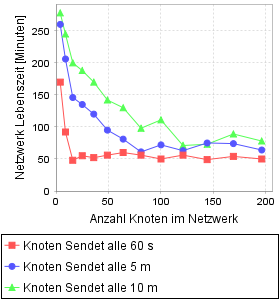
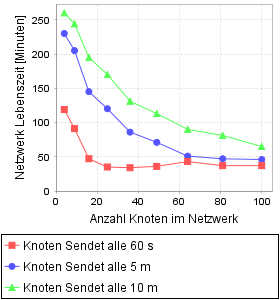
Update

diff --git a/src/DSDV/DsdvNetworkNode.java b/src/DSDV/DsdvNetworkNode.java
@@ -8,7 +8,7 @@ import SimulationNetwork.PayloadMessage;
 
 public class DsdvNetworkNode extends NetworkNode{
 	
-	private static final long UPDATE_INTERVAL = 600000;	//in ms
+	private static final long UPDATE_INTERVAL = 5*60000;	//in ms
 	private long lastUpdate;
 	private LinkedList<ForwardTableEntry> forwardTable;
 	private long numberTransmittedUpdateMsg;
@@ -39,10 +39,41 @@ public class DsdvNetworkNode extends NetworkNode{
 				lastUpdate += executionTime;
 			}
 		}
+		/*
+		if(this.isNeighborTurnedOff()){
+			
+		}
+		*/
+	}
+	
+	private boolean isNeighborTurnedOff(){
+		boolean newTurnedOffNodeDetected = false;
+		
+		for(ForwardTableEntry entry: forwardTable){
+			if(entry.getMetric() == 1){
+				if(entry.getInstallTime() < simulator.getNetworkLifetime() - 3 * UPDATE_INTERVAL){
+					entry.setMetric(Integer.MAX_VALUE);
+					entry.setSequenceNumber(entry.getSequenceNumber() + 1);
+					newTurnedOffNodeDetected = true;
+				}
+			}
+		}
+		
+		return newTurnedOffNodeDetected;
 	}
 
 	private void sendForwardTableUpdate() {
 		UpdateMessage updateMessage = new UpdateMessage();
+
+		//update old table entry for this node
+		for(ForwardTableEntry entry: forwardTable){
+			if(entry.getDestination() == this.id){
+				//increment sequenceNumber of this node by 2
+				entry.setSequenceNumber(entry.getSequenceNumber() +2);
+				break;
+			}
+		}
+		
 		
 		for(ForwardTableEntry entry: forwardTable){
 			UpdateMessageEntry updateEntry = new UpdateMessageEntry(entry.getDestination(), entry.getMetric(),entry.getSequenceNumber());
@@ -59,14 +90,14 @@ public class DsdvNetworkNode extends NetworkNode{
 	public void processRecivedMessage() {
 		Message receivedMsg = inputBuffer.removeFirst();
 		if (receivedMsg instanceof UpdateMessage) {
-			//System.out.println(simulator.getNetworkLifetime() + " - Node " + id + ": recive UpdateMsg from Node " + receivedMsg.getSenderID());
+			System.out.println(simulator.getNetworkLifetime() + " - Node " + id + ": recive UpdateMsg from Node " + receivedMsg.getSenderID());
 			this.receiveUpdateMessage((UpdateMessage)receivedMsg);
 		}
 		else{
 			if(receivedMsg instanceof PayloadMessage){
 				//System.out.println(simulator.getNetworkLifetime() + " - Node " + id + ": recive Payloadmsg from Node " + receivedMsg.getSenderID() + ". Source: " + ((PayloadMessage)receivedMsg).getPayloadSourceAdress() + " Sink: " + ((PayloadMessage)receivedMsg).getPayloadDestinationAdress() + " NextHop: "+ receivedMsg.getDestinationID()
 				if(((PayloadMessage)receivedMsg).getPayloadDestinationAdress() == this.id){
-					//System.out.println(simulator.getNetworkLifetime() + " - Node " + id + ": recive Payloadmsg from Node " + receivedMsg.getSenderID() + ". Source: " + ((PayloadMessage)receivedMsg).getPayloadSourceAdress() + " TransmissionTime: " + (simulator.getNetworkLifetime() - receivedMsg.getStartTransmissionTime()));
+					System.out.println(simulator.getNetworkLifetime() + " - Node " + id + ": recive Payloadmsg from Node " + receivedMsg.getSenderID() + ". Source: " + ((PayloadMessage)receivedMsg).getPayloadSourceAdress() + " TransmissionTime: " + (simulator.getNetworkLifetime() - receivedMsg.getStartTransmissionTime()));
 				}
 				this.receivePayloadMessage((PayloadMessage)receivedMsg);
 			}
@@ -169,10 +200,10 @@ public class DsdvNetworkNode extends NetworkNode{
 					msg.setDestinationID(entry.getNextHop());
 					
 					if(((PayloadMessage)msg).getPayloadSourceAdress() == this.id){
-						//System.out.println(simulator.getNetworkLifetime() + " Node: " +this.id + " send msg to node " + ((PayloadMessage)msg).getPayloadDestinationAdress() + ". Distance: " + entry.getMetric());
+						System.out.println(simulator.getNetworkLifetime() + " Node: " +this.id + " send msg to node " + ((PayloadMessage)msg).getPayloadDestinationAdress() + ". Distance: " + entry.getMetric());
 					}
 					else{
-						//System.out.println(simulator.getNetworkLifetime() + " Node: " +this.id + " forward msg to node " + msg.getDestinationID() + ". SinkNode: " + ((PayloadMessage)msg).getPayloadDestinationAdress() +  " Distance: " + entry.getMetric() + " TransmissionTime: " + (simulator.getNetworkLifetime() - msg.getStartTransmissionTime()));
+						System.out.println(simulator.getNetworkLifetime() + " Node: " +this.id + " forward msg to node " + msg.getDestinationID() + ". SinkNode: " + ((PayloadMessage)msg).getPayloadDestinationAdress() +  " Distance: " + entry.getMetric() + " TransmissionTime: " + (simulator.getNetworkLifetime() - msg.getStartTransmissionTime()));
 					}
 					
 					this.outputBuffer.add(msg);

diff --git a/src/DSDV/DsdvSimulator.java b/src/DSDV/DsdvSimulator.java
@@ -12,6 +12,38 @@ public class DsdvSimulator extends Simulator{
 	public long speedAnalysis(int networkWidth, int sourceNodeId, int destinationNodeId) {
 
 		DsdvNetworkGraph graph = new DsdvNetworkGraph(networkWidth);
+		NetworkNode networkNodes[] = graph.getNetworkNodes();
+		
+		this.networkLifetime = 0L;
+		
+		for (int id = 0; id < networkNodes.length; id++) {
+			((DsdvNetworkNode)networkNodes[id]).setSimulator(this);
+		}
+		
+		//Propagate network structure
+		do {
+			// Performe 1 ms every iteration
+			for (int id = 0; id < networkNodes.length; id++) {
+				networkNodes[id].performAction(NODE_EXECUTION_TIME);
+			}
+		}while(((DsdvNetworkNode)networkNodes[networkNodes.length-1]).getForwardTable().size() < networkNodes.length);
+		
+		
+		
+		long time = this.speedAnalysis(graph, networkWidth, sourceNodeId, destinationNodeId);
+
+		setCollisions(graph.getCollisions());
+		
+		PayloadMessage transmittedMsg = graph.getNetworkNodes()[destinationNodeId].getLastRecivedPayloadMessage();
+		
+		this.msgTransmissionTime = transmittedMsg.getEndTransmissionTime() - transmittedMsg.getStartTransmissionTime();
+
+		return time;
+	}
+	
+	public long speedAnalysisWhenNetworkStarts(int networkWidth, int sourceNodeId, int destinationNodeId) {
+
+		DsdvNetworkGraph graph = new DsdvNetworkGraph(networkWidth);
 
 		long time = this.speedAnalysis(graph, networkWidth, sourceNodeId, destinationNodeId);
 

diff --git a/src/DSDV/ForwardTableEntry.java b/src/DSDV/ForwardTableEntry.java
@@ -6,16 +6,16 @@ public class ForwardTableEntry {
 	private int nextHop;
 	private int metric;
 	private long sequenceNumber;
-	private long install;
+	private long installTime;
 	private int flag;
 	private int stalbeData;
 	
-	public ForwardTableEntry(int destination, int nextHop, int metric, long sequenceNumber, long install){
+	public ForwardTableEntry(int destination, int nextHop, int metric, long sequenceNumber, long installTime){
 		this.destination = destination;
 		this.nextHop = nextHop;
 		this.metric = metric;
 		this.sequenceNumber = sequenceNumber;
-		this.install = install;
+		this.installTime = installTime;
 	}
 	
 	public int getDestination() {
@@ -42,11 +42,11 @@ public class ForwardTableEntry {
 	public void setSequenceNumber(long sequenceNumber) {
 		this.sequenceNumber = sequenceNumber;
 	}
-	public long getInstall() {
-		return install;
+	public long getInstallTime() {
+		return installTime;
 	}
-	public void setInstall(long install) {
-		this.install = install;
+	public void setInstallTime(long installTime) {
+		this.installTime = installTime;
 	}
 	public int getFlag() {
 		return flag;

diff --git a/src/Simulator/Main.java b/src/Simulator/Main.java
@@ -41,9 +41,10 @@ public class Main {
 		
 		
 		DsdvEvaluationUnit dsdvEvaluationUnit = new DsdvEvaluationUnit();
+		dsdvEvaluationUnit.evaluateSpeedAnalysisWhenNetworkStarts();
 		//dsdvEvaluationUnit.evaluateSpeedAnalysis();
 		//dsdvEvaluationUnit.evaluateCostAnalysis();
 		//dsdvEvaluationUnit.evaluateNetworkLivetimeStaticSendBehaviorOneDestination(100);
-		dsdvEvaluationUnit.evaluateNetworkPartitioningAnalysis(100);
+		//dsdvEvaluationUnit.evaluateNetworkPartitioningAnalysis(100);
 	}
 }

diff --git a/src/AODV_RFC/AodvEvaluationUnit.java b/src/AODV_RFC/AodvEvaluationUnit.java
@@ -20,7 +20,7 @@ public class AodvEvaluationUnit extends EvaluationUnit {
 	
 	//private static final int networkWidth[] = {3, 5, 10, 15, 22, 27, 32};
 	//private static final int networkWidth[] = {2, 3, 4, 5, 6, 7, 8, 9, 10, 11, 12, 13, 14};
-	private static final int networkWidth[] = {4};
+	private static final int networkWidth[] = {2, 3, 4, 5, 6, 7, 8, 9, 10};
 	
 	private static final int CHART_HIGHT = 300;
 	private static final int CHART_WIDTH = 280;

diff --git a/src/SimulationNetwork/NetworkNode.java b/src/SimulationNetwork/NetworkNode.java
@@ -74,7 +74,8 @@ public abstract class NetworkNode {
 		elapsedTimeSinceLastGenerationOfTransmission = 0L;
 		numberRecivedPayloadMsg = 0;
 		
-		csmaWaitingTime = 10 + this.id * 50 ;
+		//csmaWaitingTime = 10 + this.id * 50 ;
+		csmaWaitingTime = 10;
 		
 		destinationNode = this.id;
 		
